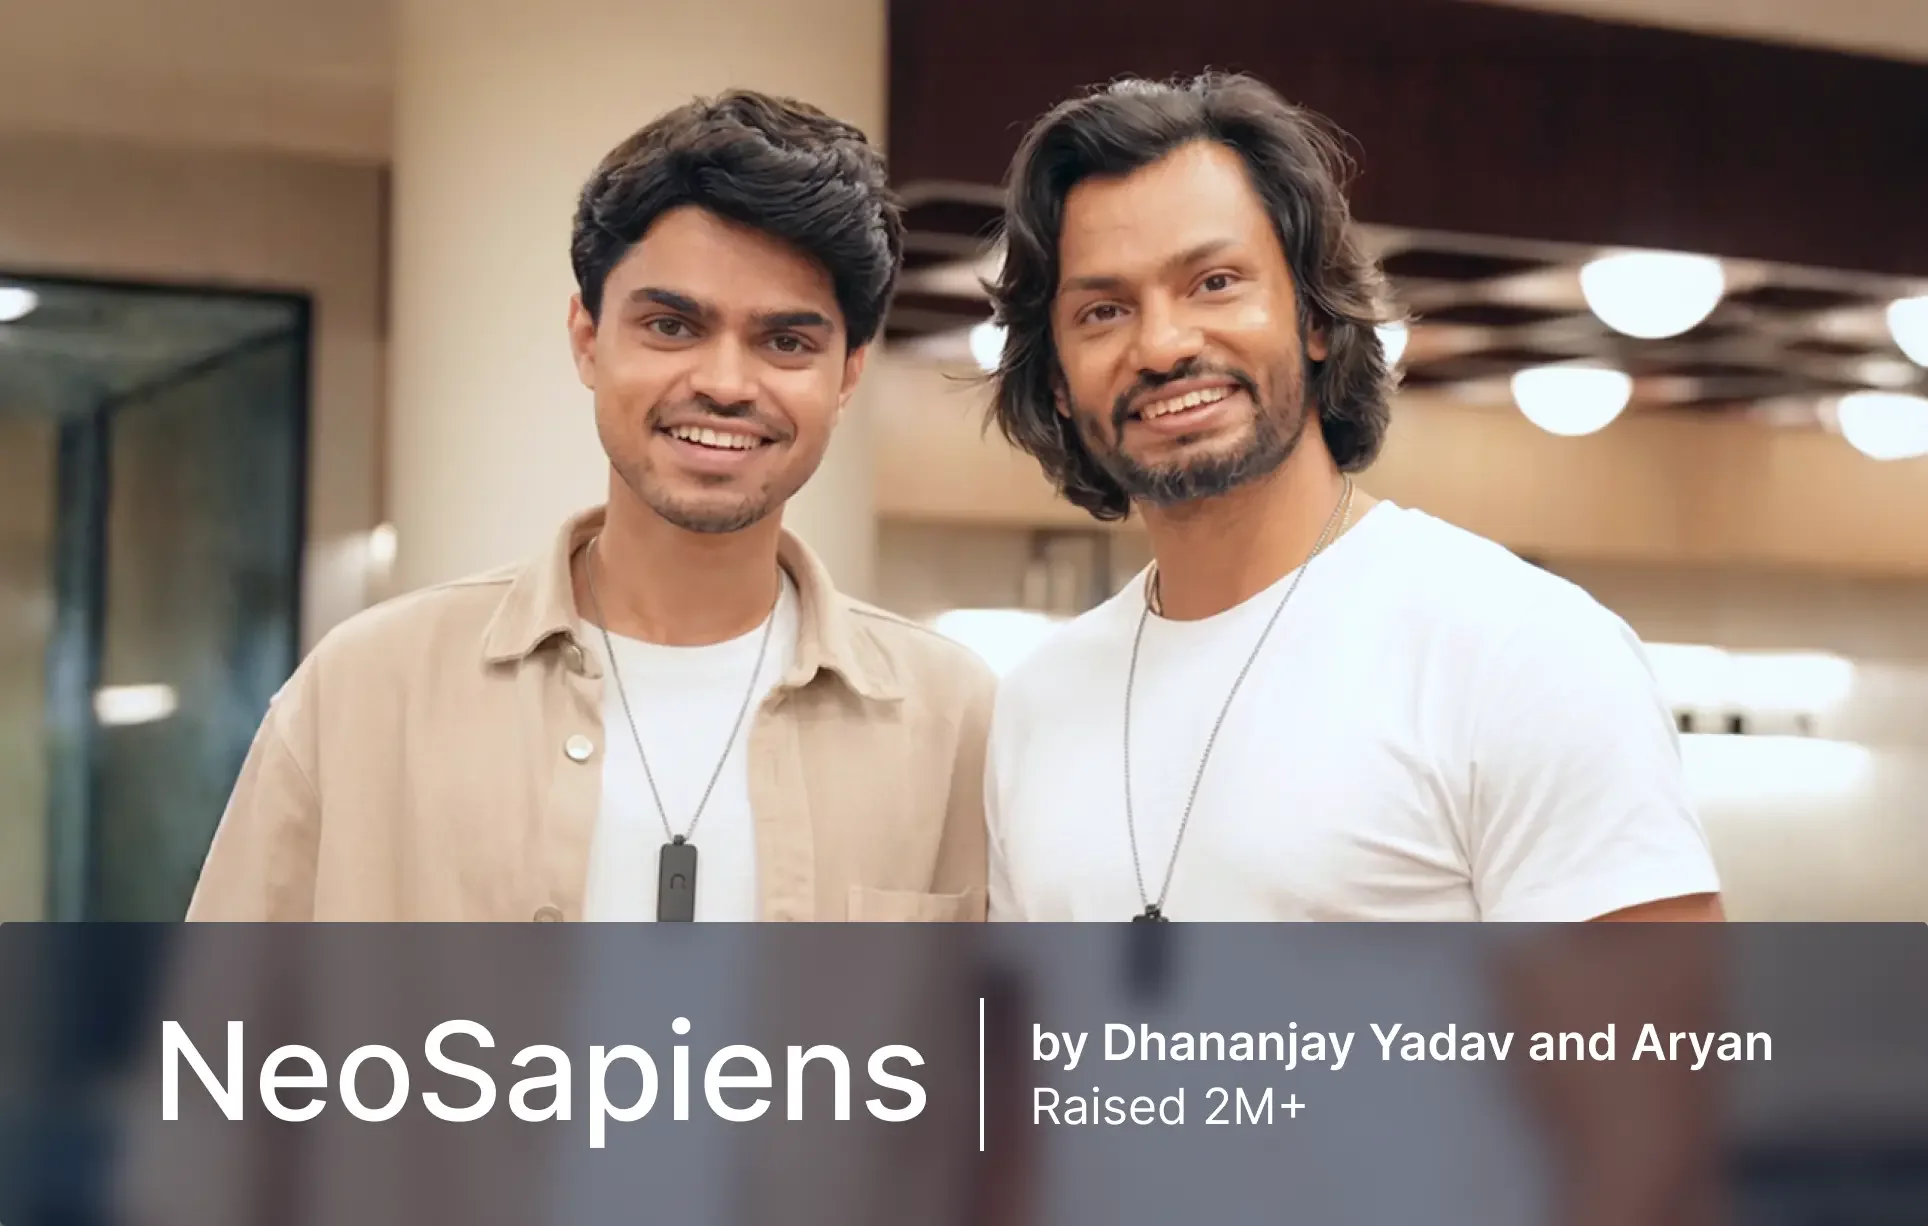
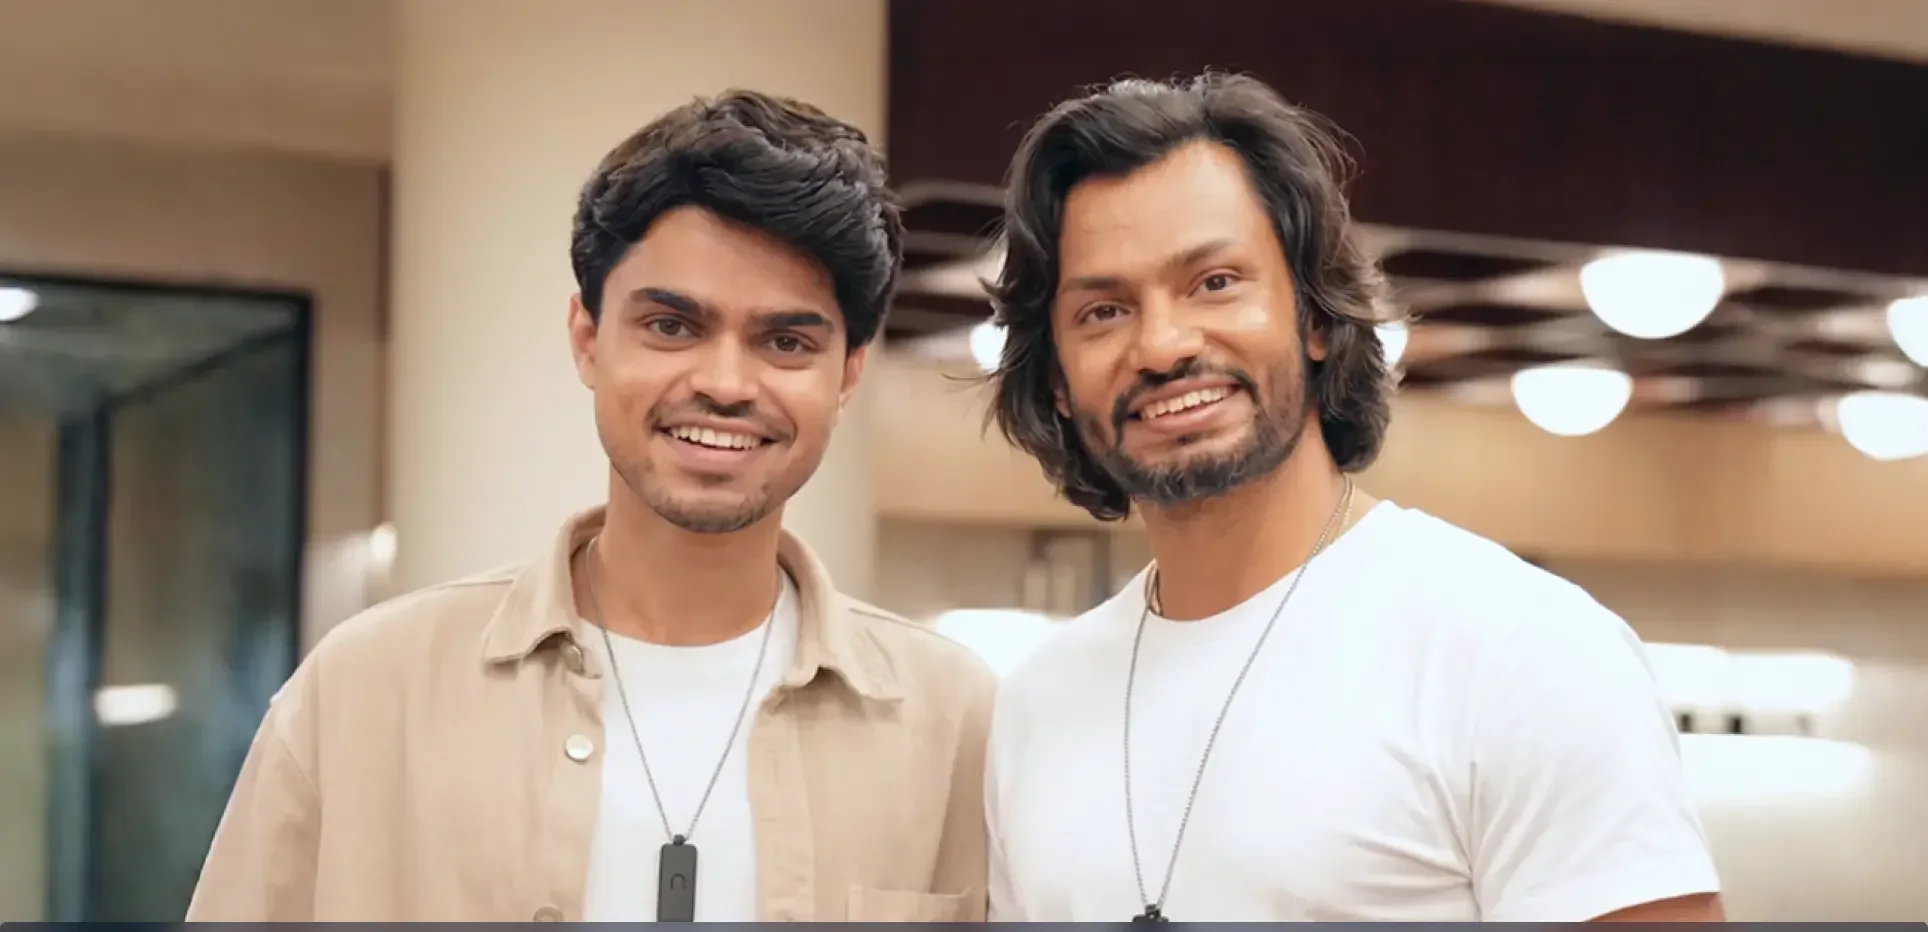
Curriculum on phones: career prep on its scenes with the frosted bar; name bars off two lab photos

diff --git a/src/sections/curriculum/journey/ssb.ts b/src/sections/curriculum/journey/ssb.ts
@@ -206,14 +206,14 @@ export const SSB_JOURNEY: Journey = {
       // AI journey images (2026-10-07, the team's call): the Scaler Innovation Lab, from the live pages
       // (scaler.com/school-of-business: the lab space, 1; scaler.com/school-of-technology, ~2000px: the
       // Ninad AI voice demo, 2; Maximem's founder in Lab 03, 3; a robotic hand, 4; the NeoSapiens founders, 5),
-      // in public/ai-terms/real. The SST photos carry a name bar at their foot: imagePos keeps the 3:1 strip
-      // above it. Tried the same day and dropped: generated photos, the live page's green AI slides, campus
+      // in public/ai-terms/real. Two SST photos (3, 5) had a name bar at their foot, cropped off the files; the
+      // strip's imagePos frames the rest. Tried the same day and dropped: generated photos, the live page's green AI slides, campus
       // photos, and startups' product screenshots.
       { term: 1, name: 'Work Smarter with AI', desc: 'Use AI to research, write, analyse and present faster, then build your first app just by describing it.', tools: ['ChatGPT', 'Claude', 'Gemini', 'Perplexity', 'NotebookLM', 'Lovable'], outcome: 'AI Product #1 from the Vibe Coding Hackathon, e.g. a Splitwise-style expense splitter', image: '/ai-terms/real/term1-lab.webp', imagePos: '50% 60%', imageTall: '/ai-terms/term1-tall.jpg?v=3', icon: 'wand' },
       { term: 2, name: 'Create with AI', desc: 'Go beyond text and build AI that can speak, see, listen and generate images and video. Use it for anything from a customer-support voice bot and training videos to product demos and visual reports.', tools: ['ElevenLabs', 'Vapi', 'Midjourney', 'HeyGen', 'Gemini', 'ChatGPT'], outcome: 'AI Product #2 from the AI Agent Hackathon, e.g. a language-learning voice assistant', image: '/ai-terms/real/term2-lab-voice.webp', imagePos: '50% 30%', imageTall: '/ai-terms/term2-tall.jpg?v=3', icon: 'wave' },
-      { term: 3, name: 'Automate with AI', desc: 'Connect everyday tools so that repetitive work in sales, marketing and operations runs on its own.', tools: ['Zapier', 'n8n', 'Make', 'Airtable', 'Notion'], outcome: 'AI Product #3, an automation that runs a real business process, e.g. a case-interview practice tool', image: '/ai-terms/real/term3-lab-maximem.webp', imagePos: '50% 15%', imageTall: '/ai-terms/term3-tall.jpg?v=3', icon: 'cycle' },
+      { term: 3, name: 'Automate with AI', desc: 'Connect everyday tools so that repetitive work in sales, marketing and operations runs on its own.', tools: ['Zapier', 'n8n', 'Make', 'Airtable', 'Notion'], outcome: 'AI Product #3, an automation that runs a real business process, e.g. a case-interview practice tool', image: '/ai-terms/real/term3-lab-maximem.webp', imagePos: '50% 25%', imageTall: '/ai-terms/term3-tall.jpg?v=3', icon: 'cycle' },
       { term: 4, name: 'Build AI Agents', desc: 'Build AI agents that research, decide and complete tasks on their own, like a digital teammate.', tools: ['Relevance AI', 'CrewAI', 'Hugging Face', 'Ollama'], outcome: 'AI Product #4 from the 48-Hour AI Hackathon, e.g. a negotiation-training AI coach', image: '/ai-terms/real/term4-lab-robotics.webp', imagePos: '50% 35%', imageTall: '/ai-terms/term4-tall.jpg?v=3', icon: 'robot' },
-      { term: 5, name: 'Scale AI products', desc: 'Learn where AI creates real value in a business, how to price it and build its ROI case, and take your product to market.', tools: ['Julius AI', 'Microsoft Copilot', 'Cursor'], outcome: 'AI Product #5, a capstone launched to real users with a go-to-market plan, e.g. a party icebreaker AI game', image: '/ai-terms/real/term5-lab-neosapiens.webp', imagePos: '50% 15%', imageTall: '/ai-terms/term5-tall.jpg?v=3', icon: 'rocket' },
+      { term: 5, name: 'Scale AI products', desc: 'Learn where AI creates real value in a business, how to price it and build its ROI case, and take your product to market.', tools: ['Julius AI', 'Microsoft Copilot', 'Cursor'], outcome: 'AI Product #5, a capstone launched to real users with a go-to-market plan, e.g. a party icebreaker AI game', image: '/ai-terms/real/term5-lab-neosapiens.webp', imagePos: '50% 25%', imageTall: '/ai-terms/term5-tall.jpg?v=3', icon: 'rocket' },
     ],
   },
   careerPrep: {

diff --git a/src/sections/curriculum/curriculum-rail.css b/src/sections/curriculum/curriculum-rail.css
@@ -209,3 +209,40 @@
 /* AI journey cards in the rail (2026-10-07): the photo strip a little taller (5:2, was 7:2), so the
    photos keep their people; each photo's own crop (imagePos, inline) places them in it */
 @media (min-width: 1056px) { .cr-main .sj-ai[data-layout='split'] .ss-hero .sj-ai-photo { aspect-ratio: 3 / 1; } } /* 3:1 since the team asked for smaller photos (5:2 before, the same day) */
+
+/* ── Career prep on phones and tablets, as on desktop (2026-10-07, the m-web sweep) ──
+   Each stat card on its illustrated scene, the figure and its line on the frosted green bar at the
+   card's foot, in white; the small drawings and the waveform are off. One card to a row. */
+@media (max-width: 1055px) {
+  .cr-main .sj-pbento { display: grid; grid-template-columns: minmax(0, 1fr); grid-auto-rows: auto; gap: 12px; }
+  .cr-main .sj-pb-card { position: relative; display: flex; flex-direction: column; justify-content: flex-end; grid-column: auto; grid-row: auto; min-height: 220px; height: auto; padding: 0; overflow: hidden;
+    border: 0; border-radius: 20px; box-shadow: none; background: #c9ecd9 center / cover no-repeat; text-align: left; }
+  .cr-main .sj-pb-card[data-k='hours'] { background-image: url('/career/hours-scene.webp'); background-position: 30% 70%; }
+  .cr-main .sj-pb-card[data-k='oneToOne'] { background-image: url('/career/solving-scene.webp'); background-position: 30% 60%; }
+  .cr-main .sj-pb-card[data-k='interviews'] { background-image: url('/career/interviews-scene.webp'); background-position: 30% 40%; }
+  .cr-main .sj-pb-card[data-k='behaviour'] { background-image: url('/career/behaviour-scene.webp'); background-position: 25% 55%; }
+  .cr-main .sj-pb-card .sj-pb-art, .cr-main .sj-pb-card .sj-pb-wave { display: none; }
+  .cr-main .sj-pb-card .sj-pb-text { --pb-bar: blur(22px) saturate(1.5); position: relative; inset: auto; display: flex; flex-direction: row; align-items: center; gap: 0; margin: 12px; padding: 12px 16px;
+    border: 1px solid rgb(255 255 255 / 0.22); border-radius: 16px; background: rgb(8 60 38 / 0.38); -webkit-backdrop-filter: var(--pb-bar); backdrop-filter: var(--pb-bar); text-align: left; }
+  .cr-main .sj-pb-card .sj-pb-stat { display: flex; flex: 1; flex-direction: row-reverse; justify-content: flex-end; align-items: center; gap: 12px; min-width: 0; margin: 0; }
+  .cr-main .sj-pb-card .sj-pb-stat + .sj-pb-stat { margin-left: 14px; padding-left: 14px; border-left: 1px solid rgb(255 255 255 / 0.28); }
+  .cr-main .sj-pb-card .sj-pb-stat dd { flex: none; margin: 0; font-size: 1.75rem; line-height: 1; white-space: nowrap; color: #fff; }
+  .cr-main .sj-pb-card .sj-pb-stat dt { min-width: 0; margin: 0; font-size: 0.8125rem; line-height: 1.3; color: rgb(255 255 255 / 0.88); }
+}
+@media (max-width: 1055px) {
+  /* the figure first, then its line; the hours card's two figures one under the other */
+  .cr-main .sj-pb-card .sj-pb-stat { flex-direction: row; justify-content: flex-start; }
+  .cr-main .sj-pb-card .sj-pb-stat dd { order: -1; }
+  .cr-main .sj-pb-card .sj-pb-text[data-pair] { flex-direction: column; align-items: stretch; }
+  .cr-main .sj-pb-card .sj-pb-text[data-pair] .sj-pb-stat + .sj-pb-stat { margin: 10px 0 0; padding: 10px 0 0; border-left: 0; border-top: 1px solid rgb(255 255 255 / 0.28); }
+  .cr-main .sj-pb-card { min-height: 240px; }
+}
+@media (max-width: 1055px) {
+  .cr-main .sj-pb-card .sj-pb-stat dd, .cr-main .sj-pb-card .sj-pb-stat dd * { color: #fff; }
+  .cr-main .sj-pb-card[data-k] .sj-pb-text, .cr-main .sj-pb-card[data-k] .sj-pb-stat { justify-content: flex-start; text-align: left; }
+  .cr-main .sj-pb-card[data-k] .sj-pb-stat dt { margin-left: 0; text-align: left; }
+}
+@media (max-width: 1055px) {
+  /* the "+" is drawn with text-fill-color in journey.css: white too, on the bar */
+  .cr-main .sj-pb-card .sj-pb-text .sj-speed > span, .cr-main .sj-pb-card .sj-pb-text dd { color: #fff; -webkit-text-fill-color: #fff; }
+}
